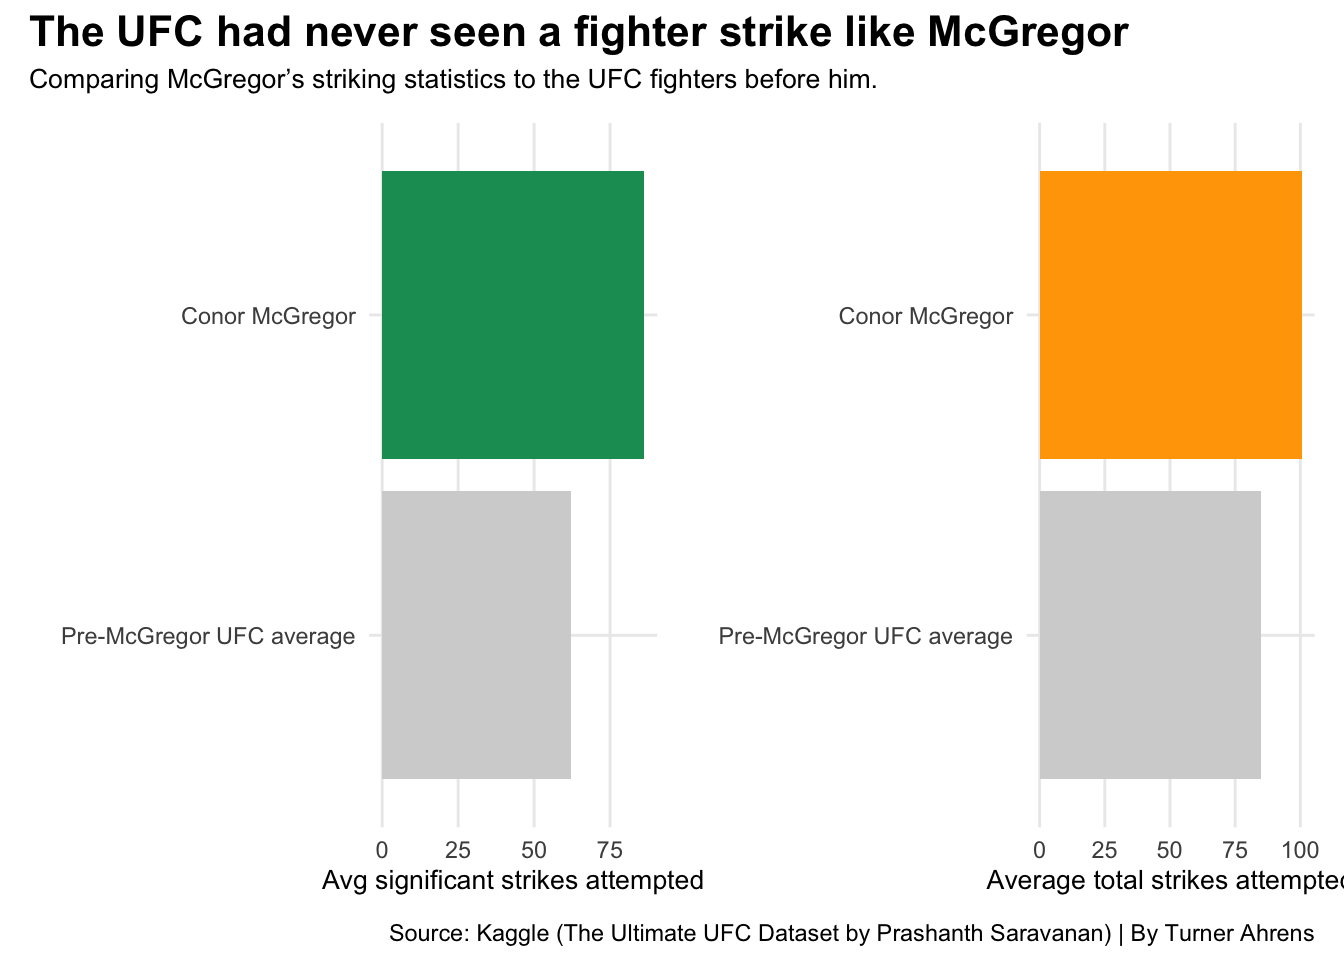
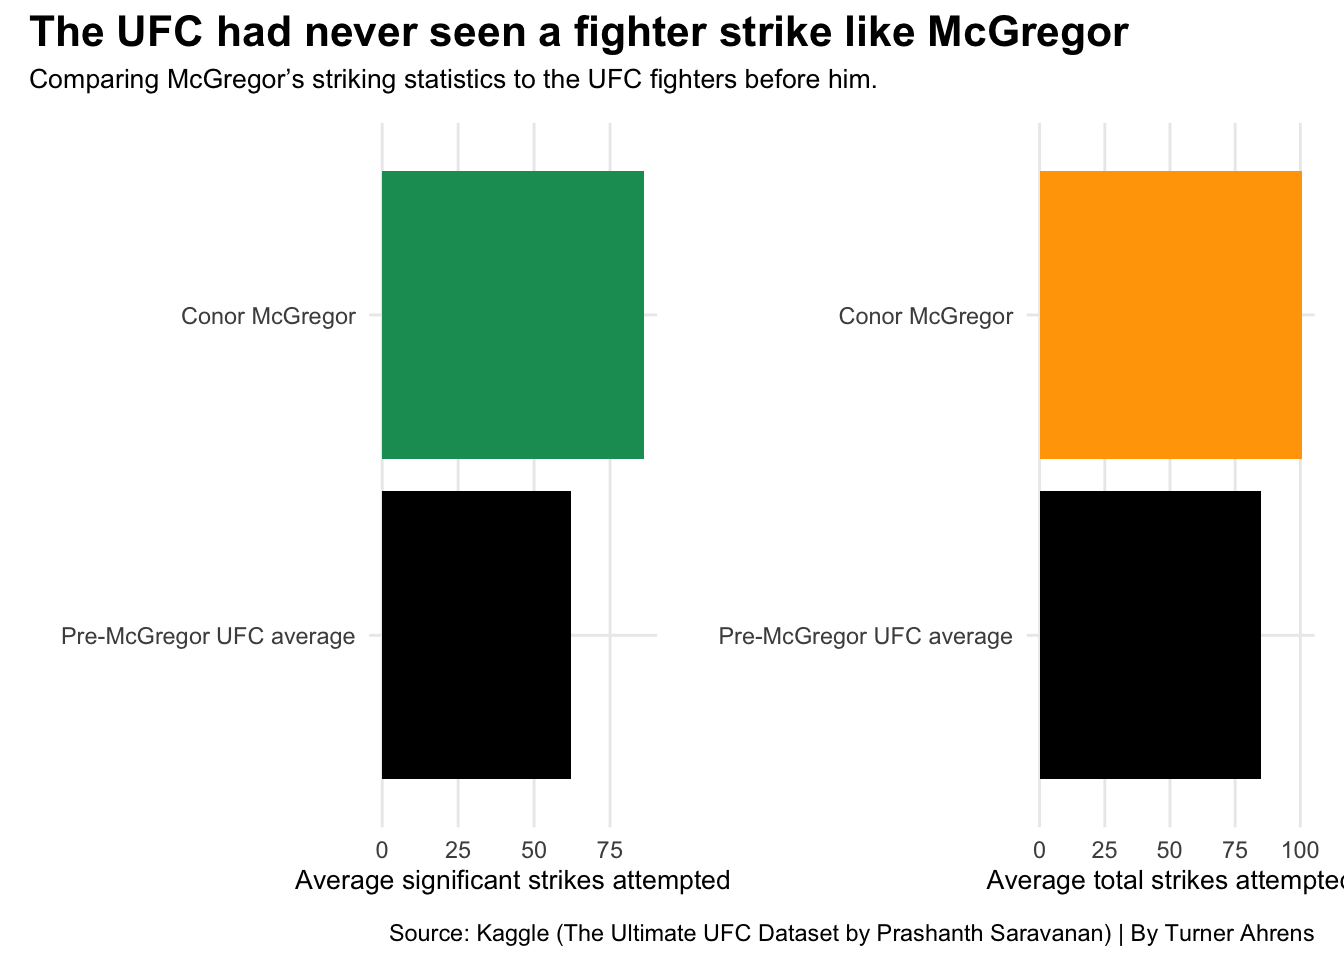
yes

Changed region(s): [[0.75, 0.5, 0.9375, 0.8125], [0.2812, 0.5, 0.4375, 0.8125], [0.2188, 0.9062, 0.5625, 0.9375]]

diff --git a/posts/conor-mcgregor-ufc/index.html b/posts/conor-mcgregor-ufc/index.html
@@ -195,8 +195,8 @@ pre > code.sourceCode > span > a:first-child::before { text-decoration: underlin
 
 
 
-<p>The “Notorious” Conor McGregor hit the UFC scene in 2013 and forever changed the trajectory of the sport.Through his antics, his showmanship, and pure skill Conor elevated what people expected from their favorite UFC fighter. McGregor’s fight style and the way he marketed himself was something the UFC scene needed. Whether you liked Conor McGregor or not, you watched. His rise was pivotal for the UFC, because the UFC was really struggling with viewership for a long time. Dana White saw Conor McGregor as more than a fighter and helped elevate him into an international star.</p>
-<p>The biggest effect Conor had on the sport was the major spike in PPV for his events.McGregor was pulling in numbers we have never seen before and was doing it in multiple ways. Even his pre-fight press conferences and weigh-in’s were generating millions of impressions and views on social media.</p>
+<p>The “Notorious” Conor McGregor hit the UFC scene in 2013 and forever changed the trajectory of the sport.Through his antics, his showmanship, and pure skill Conor elevated what people expected from their favorite UFC fighters. McGregor’s fight style and the way he marketed himself was something the UFC scene needed. Whether you liked Conor McGregor or not, you watched. His rise was pivotal for the UFC, because the UFC was really struggling with viewership for a long time. Dana White saw Conor McGregor as more than a fighter and helped elevate him into an international star.</p>
+<p>The biggest effect Conor had on the sport was the major spike in PPV for his events.McGregor was pulling in numbers we have never seen before and was doing it in multiple ways. Even his pre-fight press conferences and weigh-in’s were generating millions of impressions and views on social media. People were willing to pay the price to watch the Irishman fight.</p>
 <div class="cell">
 <details class="code-fold">
 <summary>Code</summary>
@@ -246,7 +246,7 @@ pre > code.sourceCode > span > a:first-child::before { text-decoration: underlin
 <span id="cb1-44"><a href="#cb1-44" aria-hidden="true" tabindex="-1"></a>  <span class="fu">theme</span>(</span>
 <span id="cb1-45"><a href="#cb1-45" aria-hidden="true" tabindex="-1"></a>    <span class="at">plot.title =</span> <span class="fu">element_text</span>(<span class="at">size =</span> <span class="dv">16</span>, <span class="at">face =</span> <span class="st">"bold"</span>),</span>
 <span id="cb1-46"><a href="#cb1-46" aria-hidden="true" tabindex="-1"></a>    <span class="at">axis.title =</span> <span class="fu">element_text</span>(<span class="at">size =</span> <span class="dv">10</span>), </span>
-<span id="cb1-47"><a href="#cb1-47" aria-hidden="true" tabindex="-1"></a>    <span class="at">plot.subtitle =</span> <span class="fu">element_text</span>(<span class="at">size=</span><span class="dv">10</span>), </span>
+<span id="cb1-47"><a href="#cb1-47" aria-hidden="true" tabindex="-1"></a>    <span class="at">plot.subtitle =</span> <span class="fu">element_text</span>(<span class="at">size=</span><span class="dv">8</span>), </span>
 <span id="cb1-48"><a href="#cb1-48" aria-hidden="true" tabindex="-1"></a>    <span class="at">panel.grid.minor =</span> <span class="fu">element_blank</span>(),</span>
 <span id="cb1-49"><a href="#cb1-49" aria-hidden="true" tabindex="-1"></a>    <span class="at">plot.title.position =</span> <span class="st">"plot"</span></span>
 <span id="cb1-50"><a href="#cb1-50" aria-hidden="true" tabindex="-1"></a>    ) </span></code></pre></div><button title="Copy to Clipboard" class="code-copy-button"><i class="bi"></i></button></div>
@@ -259,7 +259,7 @@ pre > code.sourceCode > span > a:first-child::before { text-decoration: underlin
 </div>
 </div>
 </div>
-<p>Since 2000, the average fight times for all fighters in the UFC have been generally around the same time every year. Something the UFC has never seen before was somebody with the unpredictability of Conor McGregor. You never knew whether he was going to come out and try to end the fight in one round or put on a show for five rounds in a title bout. He had the ability to end a fight in 40 seconds like he did to Donold Cerrone or go deep in the 4th round with the best wrestler ever, Khabib Nurmagomedov. It was different, it was entertaining, and it changed how other fighters fought.People often undermine the fighting ability of McGregor because of his personality, but he was one of the most eletric, fast paced fighters in UFC history.</p>
+<p>Since 2000, the average fight times for all fighters in the UFC have been generally around the same time every year. Something the UFC has never seen before was somebody with the unpredictability of Conor McGregor. You never knew whether he was going to come out and try to end the fight in one round or put on a show for five rounds in a title bout. He had the ability to end a fight in 40 seconds like he did to Donold Cerrone or go deep in the 4th round with the best wrestler ever, Khabib Nurmagomedov. It was different, it was entertaining, and it changed how other fighters fought. People often undermine the fighting ability of McGregor because of his personality, but he was one of the most eletric, fast paced fighters in UFC history.</p>
 <div class="cell">
 <details class="code-fold">
 <summary>Code</summary>
@@ -313,7 +313,7 @@ pre > code.sourceCode > span > a:first-child::before { text-decoration: underlin
 </div>
 </div>
 </div>
-<p>Paragraph 3 Conor McGregor was not just a showman through his fashion and tactics, he was a showman through his fighting style. Before McGregor, fights in the UFC had way less action and were way more about trying to make it to a judges decision. Conor was one of the first fighters to throw that out that window, and go all in on “I’m going to throw more punches than you,” he notoriously told Nate Diaz in a press conference.</p>
+<p>Conor McGregor was not just a showman through his fashion and tactics, he was a showman through his fighting style. Before McGregor, fights in the UFC had way less action and were way more about trying to make it to a judges decision to win the fight. Conor was one of the first fighters to throw that gameplan out the window, and go all in on “I’m going to throw more punches than you,” he notoriously told Nate Diaz in a press conference. Conor McGregor did not just change the climate of the UFC financially but also changed how other fighters fought. McGregor was getting paid the big bucks to go put on a show and that began a steady growth in striking overall in the UFC. In conclusion, through his ppv sales, figting style, and striking volume, Conor McGregor changed the UFC more then any fighter we have ever seen.</p>
 <div class="cell">
 <details class="code-fold">
 <summary>Code</summary>
@@ -331,12 +331,12 @@ pre > code.sourceCode > span > a:first-child::before { text-decoration: underlin
 <span id="cb3-12"><a href="#cb3-12" aria-hidden="true" tabindex="-1"></a>sig_both <span class="ot">&lt;-</span> <span class="fu">bind_rows</span>(all_sig, mcgregor_sig)</span>
 <span id="cb3-13"><a href="#cb3-13" aria-hidden="true" tabindex="-1"></a></span>
 <span id="cb3-14"><a href="#cb3-14" aria-hidden="true" tabindex="-1"></a>bar_sig <span class="ot">&lt;-</span> <span class="fu">ggplot</span>() <span class="sc">+</span></span>
-<span id="cb3-15"><a href="#cb3-15" aria-hidden="true" tabindex="-1"></a>  <span class="fu">geom_bar</span>(<span class="at">data =</span> sig_both,<span class="fu">aes</span>(<span class="at">x =</span> <span class="fu">reorder</span>(FighterType, avg_sig_attempt), <span class="at">weight =</span> avg_sig_attempt),<span class="at">fill =</span> <span class="st">"lightgrey"</span>) <span class="sc">+</span></span>
+<span id="cb3-15"><a href="#cb3-15" aria-hidden="true" tabindex="-1"></a>  <span class="fu">geom_bar</span>(<span class="at">data =</span> sig_both,<span class="fu">aes</span>(<span class="at">x =</span> <span class="fu">reorder</span>(FighterType, avg_sig_attempt), <span class="at">weight =</span> avg_sig_attempt),<span class="at">fill =</span> <span class="st">"black"</span>) <span class="sc">+</span></span>
 <span id="cb3-16"><a href="#cb3-16" aria-hidden="true" tabindex="-1"></a>  <span class="fu">geom_bar</span>(<span class="at">data =</span> mcgregor_sig,<span class="fu">aes</span>(<span class="at">x =</span> FighterType, <span class="at">weight =</span> avg_sig_attempt),<span class="at">fill =</span> <span class="st">"#169B62"</span>) <span class="sc">+</span></span>
 <span id="cb3-17"><a href="#cb3-17" aria-hidden="true" tabindex="-1"></a>  <span class="fu">coord_flip</span>() <span class="sc">+</span></span>
 <span id="cb3-18"><a href="#cb3-18" aria-hidden="true" tabindex="-1"></a>  <span class="fu">labs</span>(</span>
 <span id="cb3-19"><a href="#cb3-19" aria-hidden="true" tabindex="-1"></a>    <span class="at">x =</span> <span class="st">""</span>,</span>
-<span id="cb3-20"><a href="#cb3-20" aria-hidden="true" tabindex="-1"></a>    <span class="at">y =</span> <span class="st">"Avg significant strikes attempted"</span></span>
+<span id="cb3-20"><a href="#cb3-20" aria-hidden="true" tabindex="-1"></a>    <span class="at">y =</span> <span class="st">"Average significant strikes attempted"</span></span>
 <span id="cb3-21"><a href="#cb3-21" aria-hidden="true" tabindex="-1"></a>  ) <span class="sc">+</span></span>
 <span id="cb3-22"><a href="#cb3-22" aria-hidden="true" tabindex="-1"></a>  <span class="fu">theme_minimal</span>() <span class="sc">+</span></span>
 <span id="cb3-23"><a href="#cb3-23" aria-hidden="true" tabindex="-1"></a>  <span class="fu">theme</span>(</span>
@@ -358,7 +358,7 @@ pre > code.sourceCode > span > a:first-child::before { text-decoration: underlin
 <span id="cb3-39"><a href="#cb3-39" aria-hidden="true" tabindex="-1"></a>total_table <span class="ot">&lt;-</span> <span class="fu">bind_rows</span>(all_total, mcgregor_total)</span>
 <span id="cb3-40"><a href="#cb3-40" aria-hidden="true" tabindex="-1"></a></span>
 <span id="cb3-41"><a href="#cb3-41" aria-hidden="true" tabindex="-1"></a>bar_total <span class="ot">&lt;-</span> <span class="fu">ggplot</span>() <span class="sc">+</span></span>
-<span id="cb3-42"><a href="#cb3-42" aria-hidden="true" tabindex="-1"></a>  <span class="fu">geom_bar</span>(<span class="at">data =</span> total_table,<span class="fu">aes</span>(<span class="at">x =</span> <span class="fu">reorder</span>(FighterType, avg_total_attempt), <span class="at">weight =</span> avg_total_attempt),<span class="at">fill =</span> <span class="st">"lightgrey"</span>) <span class="sc">+</span></span>
+<span id="cb3-42"><a href="#cb3-42" aria-hidden="true" tabindex="-1"></a>  <span class="fu">geom_bar</span>(<span class="at">data =</span> total_table,<span class="fu">aes</span>(<span class="at">x =</span> <span class="fu">reorder</span>(FighterType, avg_total_attempt), <span class="at">weight =</span> avg_total_attempt),<span class="at">fill =</span> <span class="st">"black"</span>) <span class="sc">+</span></span>
 <span id="cb3-43"><a href="#cb3-43" aria-hidden="true" tabindex="-1"></a>  <span class="fu">geom_bar</span>(<span class="at">data =</span> mcgregor_total,<span class="fu">aes</span>(<span class="at">x =</span> FighterType, <span class="at">weight =</span> avg_total_attempt),<span class="at">fill =</span> <span class="st">"orange"</span>) <span class="sc">+</span></span>
 <span id="cb3-44"><a href="#cb3-44" aria-hidden="true" tabindex="-1"></a>  <span class="fu">coord_flip</span>() <span class="sc">+</span></span>
 <span id="cb3-45"><a href="#cb3-45" aria-hidden="true" tabindex="-1"></a>  <span class="fu">labs</span>(</span>
@@ -392,7 +392,6 @@ pre > code.sourceCode > span > a:first-child::before { text-decoration: underlin
 </div>
 </div>
 </div>
-<p>In conclusion, Conor McGregor did not just change the climate of the UFC financially but he changed what people expected in a UFC fight and he did it more than any fighter ever.</p>
 
 
 

diff --git a/index.html b/index.html
@@ -209,7 +209,7 @@ window.Quarto = {
 
 <div class="quarto-listing quarto-listing-container-default" id="listing-listing">
 <div class="list quarto-listing-default">
-<div class="quarto-post image-right" data-index="0" data-categories="Q29ub3IlMjBNY0dyZWdvciUyQ1VGQyUyQ1BQVg==" data-listing-date-sort="1764914400000" data-listing-file-modified-sort="1764968682628" data-listing-date-modified-sort="NaN" data-listing-reading-time-sort="7" data-listing-word-count-sort="1201">
+<div class="quarto-post image-right" data-index="0" data-categories="Q29ub3IlMjBNY0dyZWdvciUyQ1VGQyUyQ1BQVg==" data-listing-date-sort="1764914400000" data-listing-file-modified-sort="1764970403469" data-listing-date-modified-sort="NaN" data-listing-reading-time-sort="7" data-listing-word-count-sort="1253">
 <div class="thumbnail"><a href="./posts/conor-mcgregor-ufc/index.html" class="no-external">
 
 <img loading="lazy" src="./posts/conor-mcgregor-ufc/mcGregor.jpg" class="thumbnail-image">
